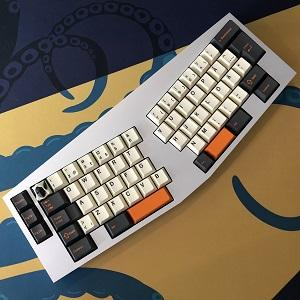
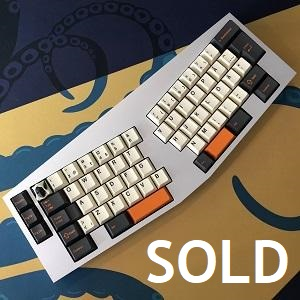
updated layout

Changed region(s): [[0.48, 0.78, 0.96, 0.96]]

diff --git a/efreet.html b/efreet.html
@@ -5,10 +5,10 @@
   <!-- Basic Page Needs, edit title and description
   –––––––––––––––––––––––––––––––––––––––––––––––––– -->
   <meta charset="utf-8">
-  <title>Stormlike - idb Ergo</title>
-  <meta name="description" content="idb Ergo">
-  <meta property="og:image" content="/assets/images/idbergo/0.JPG" />
-  <meta name="keywords" content="idb, ergo, carbon, gmk, aluminum, 60%, keyboard, keyboards, google image search, custom, catalogue, stormlike" />
+  <title>Stormlike - Efreet</title>
+  <meta name="description" content="Efreet">
+  <meta property="og:image" content="/assets/images/efreet/0.jpg" />
+  <meta name="keywords" content="as4x, efreet, carbon, gmk, aluminum, ortho, 40%, keyboard, keyboards, google image search, custom, catalogue, stormlike" />
   <meta name="author" content="Stormlike">
   
 <!-- Global site tag (gtag.js) - Google Analytics -->
@@ -62,26 +62,27 @@
 		</a>
        </div>
 	   <div class="six columns" align="right">
-				<h2>idb Ergo</h2>
+				<h2>Efreet</h2>
        </div>
      </div>
 <!-- intro section, features. Edit images
   –––––––––––––––––––––––––––––––––––––––––––––––––– -->
 	 <div class="row">
 	  <div class="twelwhite columns">
-	  <a href="../assets/images/idbergo/0.JPG">
-		<img class="u-images" src="../assets/images/idbergo/0.JPG" alt="idbergo">
+	  <a href="../assets/images/efreet/0.jpg">
+		<img class="u-images" src="../assets/images/efreet/0.jpg" alt="efreet">
 	  </a>
-	   <h3>idb Ergo</h3>
+	   <h3>Efreet 40% ortho</h3>
 	   <p>
-This is the third idb designed keyboard I had the opportunity to get my hands on. The idb Ergo is a different kind of typing experience with the 18 degree angled layout and still being a single unit.
-In true current idb spirit the idb Ergo is plateless making it flexible, without being spongy, and reducing vibrations. Case is milled out of solid aluminum and anodized in silver color.
-PCB is held in place in the case with a few tabs that's dampened with O-rings.
-The layout is 60% WKL with three additional switches top left. Due to the split the single spacebar is replaced with 2.75u and 2u ones.
+The Efreet is the idea of a Polish man, lets call him soran, who thought existing 40% orthos weren't good enough, so he made the as4x, later renamed Efreet.
+It is a solid piece where the silver anodized aluminum plate is sandwiched between the black top and bottom using eight hex screws.
+The PCB is custom made for this case and is QMK programmable of course.
+Much less hollow sounding than other 40% keyboards. It is on the other hand quite a hefty piece making it a little less portable than it looks.
 	   <br>
 	   <br>
-Switches are Revo whites lubed with Tribosys 3203 and stabs are GMK ones but with gold wires. Currently the keycaps are GMK Carbon with orange spacebars and a carbon-themed elven artisdan on Esc.</p>
-	   <h3>This board was sold in Nov 2019</h3>
+The switches are milky Gateron clears lubed with GPL104. No stabilizers since I went for the grid layout. Keycaps are GMK Carbon cadet alphas (but normal NorDes) and blank ergo modifiers with arrows from the base kit.
+	   </p>
+	   <h3>This board was sold in Sept 2019</h3>
 	  </div>
 	</div>
 <!-- Main bulk section. Edit image links and folders, and desc-text
@@ -93,57 +94,29 @@ Switches are Revo whites lubed with Tribosys 3203 and stabs are GMK ones but wit
      </div>
   <div class="row">
 	<div class="four columns">
-	   <a href="../assets/images/idbergo/1.JPG">
-		<img class="u-images" src="../assets/images/idbergo/1.JPG" alt="idbergo">
+	   <a href="../assets/images/efreet/1.jpg">
+		<img class="u-images" src="../assets/images/efreet/1.jpg" alt="efreet">
 	  </a>
 	<div class="desc">
-The milled out aluminum bottom
+Showing of the angle of the little keyboard
 	</div>
 	</div>
 
 	<div class="four columns">
-	   <a href="../assets/images/idbergo/2.JPG">
-		<img class="u-images" src="../assets/images/idbergo/2.JPG" alt="idbergo">
+	   <a href="../assets/images/efreet/2.jpg">
+		<img class="u-images" src="../assets/images/efreet/2.jpg" alt="efreet">
 	  </a>
 	 <div class="desc">
-Switches and stabs in place on the PCB
+Backside shot showing the design of the base
 	</div>
 	</div>
 
 	<div class="four columns">
-	  <a href="../assets/images/idbergo/3.JPG">
-		<img class="u-images" src="../assets/images/idbergo/3.JPG" alt="idbergo">
+	  <a href="../assets/images/efreet/3.jpg">
+		<img class="u-images" src="../assets/images/efreet/3.jpg" alt="efreet">
 	  </a>
 	 <div class="desc">
-Testfit of PCB in case
-	</div>
-	</div>
-</div>
-<div class="row">
-	<div class="four columns">
-	   <a href="../assets/images/idbergo/4.JPG">
-		<img class="u-images" src="../assets/images/idbergo/4.JPG" alt="idbergo">
-	  </a>
-	 <div class="desc">
-Switches soldered and PCB seated in case
-	</div>
-	</div>
-	
-	<div class="four columns">
-	  <a href="../assets/images/idbergo/5.JPG">
-		<img class="u-images" src="../assets/images/idbergo/5.JPG" alt="idbergo">
-	  </a>
-	 <div class="desc">
-Top down shot of the keyboard with the GMK Carbon caps
-	</div>
-	</div>
-	
-	<div class="four columns">
-	   <a href="../assets/images/idbergo/6.JPG">
-		<img class="u-images" src="../assets/images/idbergo/6.JPG" alt="idbergo">
-	  </a>
-	 <div class="desc">
-Close-up of the middle section. Nice and tight fit between caps and case
+Switches in place in plate and PCB. These are very light gateron clears
 	</div>
 	</div>
 </div>
@@ -190,7 +163,7 @@ Close-up of the middle section. Nice and tight fit between caps and case
 	   </div>
 	   <div class="fourtrans columns">
 	   <h4>Information</h4>
-	   	<p> Site is built with HTML, js and CSS only, published at GitHub Pages. No affiliates or sponsors. This is purely a hobby.
+	   	<p> Site is built with HTML and CSS only, published at GitHub Pages. No affiliates or sponsors. This is purely a hobby.
 		<br>
 		</p>
 		<a href="index.html" title="Back to main">

diff --git a/index.html b/index.html
@@ -62,7 +62,6 @@
 		<a href="decent65proto.html">Decent65 prototype</a>
 		<a href="blacktofu.html">Black Tofu</a>
 		<a href="i69.html">i69</a>
-		<a href="idbergo.html">idb Ergo</a>
 	    <a href="borsdorf.html">Borsdorf</a>
 		<a href="idb60proto.html">idb60 prototype</a>
 	    <a href="bokcp.html">Bok.cp</a>
@@ -104,7 +103,7 @@
 </div>
 <!-- Main bulk section
   –––––––––––––––––––––––––––––––––––––––––––––––––– -->
-			<div class="main">
+<div class="main">
 				<ul id="og-grid" class="og-grid">
 					<li>
 						<a href="g80-1800.html" data-largesrc="../assets/images/g80-1800/0.jpg" data-title="Modified Cherry G80-1800" data-description=
@@ -185,27 +184,7 @@ The case has superior finish and the weight and the logo on it is superb. Simple
 						>
 							<img src="images/i69.jpg" alt="i69" width="300"/>
 						</a>
-					</li>					
-					<li>
-						<a href="idbergo.html" data-largesrc="assets/images/idbergo/5.JPG" data-title="idb Ergo" data-description=
-						"
-						<b>Board: </b>idb Ergo</br>
-						<b>Layout: </b>60% ergonomical</br>
-						<b>Mount: </b>O-ring mounted sandwiched PCB</br>
-						<b>Plate: </b>No plate</br>
-						<b>PCB: </b>idb Ergo PCB</br>
-						<b>Switches: </b>Revo whites lubed with Tribosys 3203</br>
-						<b>Keycaps: </b>GMK Carbon with elves artisan</br>
-						<b>Aquired: </b>June 2019</br></br>
-						<b>Additional information:</b></br>
-This is the third idb designed keyboard I had the opportunity to get my hands on. The idb Ergo is a different kind of typing experience with the 18 degree angled layout and still being a single unit.
-In true current idb spirit the idb Ergo is plateless making it flexible, without being spongy, and reducing vibrations. Case is milled out of solid aluminum.
-The layout is 60% WKL with three additional switches top left.
-						"
-						>
-							<img src="images/idbergo.jpg" alt="idb Ergo" width="300"/>
-						</a>
-					</li>								
+					</li>													
 					<li>
 						<a href="borsdorf.html" data-largesrc="assets/images/borsdorf/3.jpg" data-title="Borsdorf" data-description=
 						"
@@ -507,7 +486,58 @@ It's a good little artisan-holder atleast. No additional pictures in gallery.
 						</a>
 					</li>
 				</ul>
-			</div>
+</div>
+ <div class="container">	
+	<div class="row">
+		<div class="twelve columns">
+			<h3>Liquidated builds</h3>
+		</div>
+	</div>
+</div>
+<div class="main">
+				<ul id="og-grid" class="og-grid">
+					<li>
+						<a href="efreet.html" data-largesrc="../assets/images/efreet/0.jpg" data-title="Efreet" data-description=
+						"
+						<b>Case: </b>Efreet</br>
+						<b>Layout: </b>40% ortho</br>
+						<b>Mount: </b>Sandwich</br>
+						<b>Plate: </b>Aluminium</br>
+						<b>PCB: </b>Efreet</br>
+						<b>Switches: </b>Lubed Gateron Clears</br>
+						<b>Keycaps: </b>GMK Carbon</br>
+						<b>Aquired: </b>June 2019</br></br>
+						<b>Additional information:</b></br>
+The Efreet is the idea of a Polish man, lets call him soran, who thought existing 40% orthos weren't good enough, so he made the as4x, later renamed Efreet.
+It is a solid piece where the silver anodized aluminum plate is sandwiched between the black top and bottom using eight hex screws.
+Sold this board in Sept 2019 due to me not being able to handle the layout properly.
+						"
+						>
+							<img src="images/efreet.jpg" alt="Efreet" width="300"/>
+						</a>
+					</li>
+					<li>
+						<a href="idbergo.html" data-largesrc="assets/images/idbergo/5.JPG" data-title="idb Ergo" data-description=
+						"
+						<b>Board: </b>idb Ergo</br>
+						<b>Layout: </b>60% ergonomical</br>
+						<b>Mount: </b>O-ring mounted sandwiched PCB</br>
+						<b>Plate: </b>No plate</br>
+						<b>PCB: </b>idb Ergo PCB</br>
+						<b>Switches: </b>Revo whites lubed with Tribosys 3203</br>
+						<b>Keycaps: </b>GMK Carbon with elves artisan</br>
+						<b>Aquired: </b>June 2019</br></br>
+						<b>Additional information:</b></br>
+This is the third idb designed keyboard I had the opportunity to get my hands on. The idb Ergo is a different kind of typing experience with the 18 degree angled layout and still being a single unit.
+In true current idb spirit the idb Ergo is plateless making it flexible, without being spongy, and reducing vibrations. Case is milled out of solid aluminum.
+Sold this board in Nov 2019 due to me not being able to handle the layout properly.
+						"
+						>
+							<img src="images/idbergo.jpg" alt="idb Ergo" width="300"/>
+						</a>
+					</li>
+				</ul>
+</div>
 <div class="row">
 </div>
 		<!-- Footer 1 - Contacts and links
